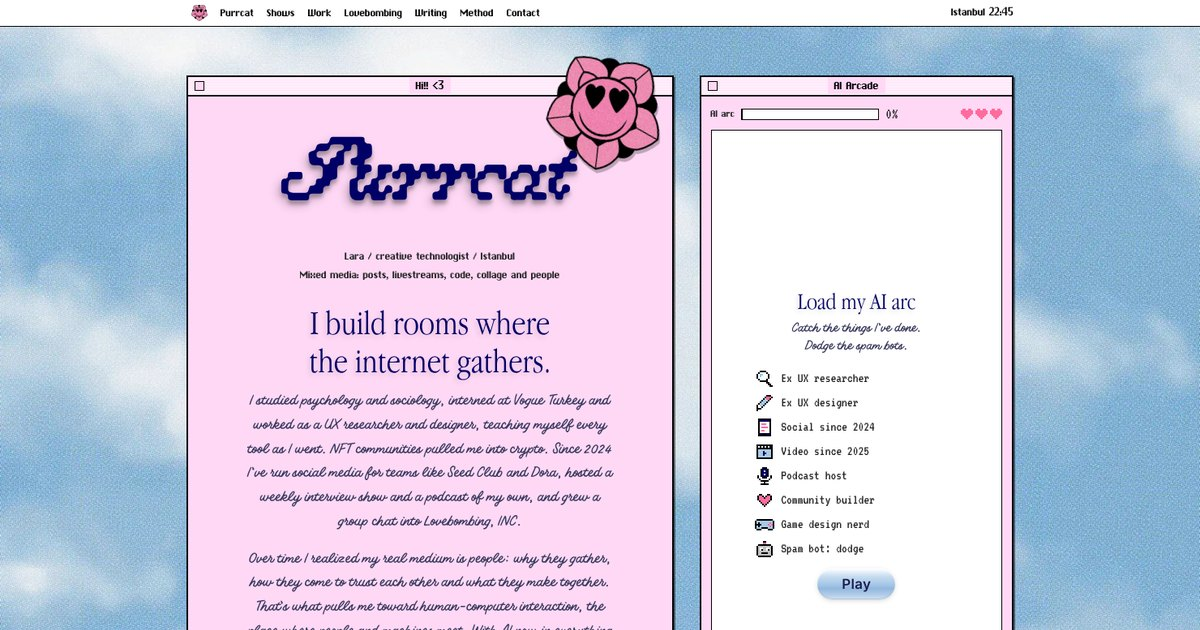
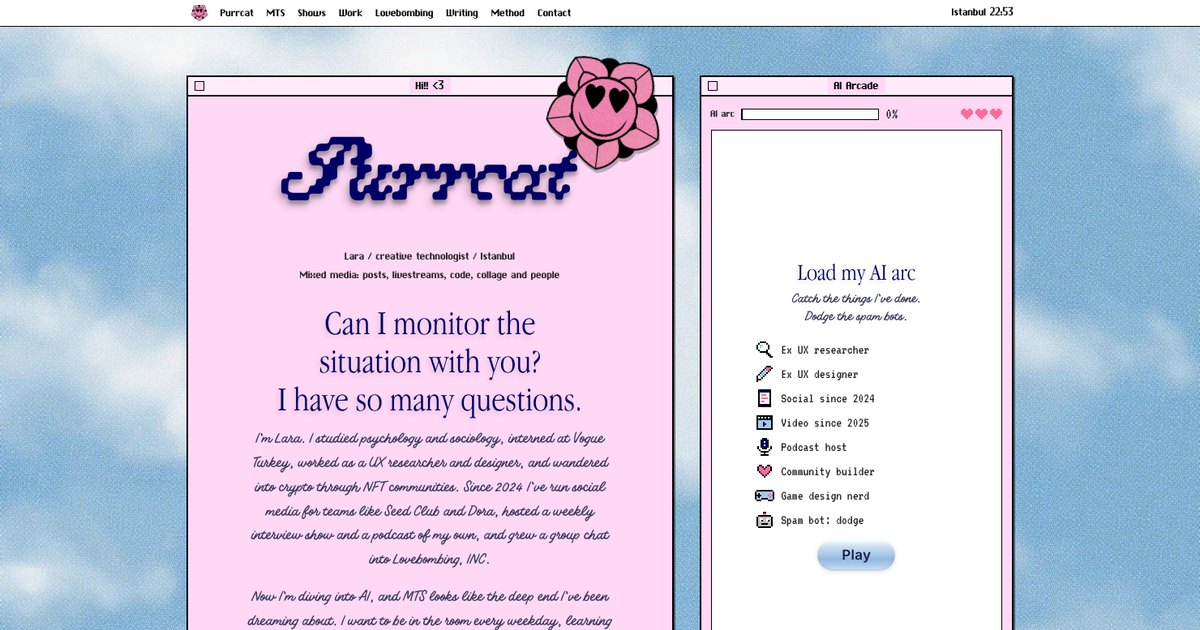
Point the page at MTS: a playful headline and a Letter to MTS
Headline: Can I monitor the situation with you? I have so many questions. The intro is shorter on me and ends on why MTS. A new Letter to MTS window after the timeline says why the show excites me, what I want to learn (how AI gets built and how it changes the way people and computers meet), and what I would bring: clips, live production, an interviewer's ear, timeline fluency, design and community. Signed See you at 9 PT, with a Write back button. MTS link in the menu, link preview updated.

Claude-Session: https://claude.ai/code/session_012vLfLktoEVwbfYkYAVud5t

diff --git a/index.html b/index.html
@@ -4,18 +4,18 @@
 <meta charset="utf-8">
 <meta name="viewport" content="width=device-width, initial-scale=1, viewport-fit=cover">
 <title>Purrcat Reel</title>
-<meta name="description" content="Purrcat is Lara, a mixed media creative technologist in Istanbul. She builds rooms where the internet gathers.">
+<meta name="description" content="Purrcat is Lara, a creative technologist in Istanbul. She would love to monitor the situation with MTS, and she has so many questions.">
 <link rel="canonical" href="https://agentic-scenester.vercel.app/">
 <meta property="og:type" content="website">
 <meta property="og:url" content="https://agentic-scenester.vercel.app/">
 <meta property="og:title" content="Purrcat Reel">
-<meta property="og:description" content="Purrcat is Lara, a mixed media creative technologist in Istanbul. She builds rooms where the internet gathers.">
+<meta property="og:description" content="Purrcat is Lara, a creative technologist in Istanbul. She would love to monitor the situation with MTS, and she has so many questions.">
 <meta property="og:image" content="https://agentic-scenester.vercel.app/assets/og.jpg">
 <meta property="og:image:width" content="1200">
 <meta property="og:image:height" content="630">
 <meta name="twitter:card" content="summary_large_image">
 <meta name="twitter:title" content="Purrcat Reel">
-<meta name="twitter:description" content="Purrcat is Lara, a mixed media creative technologist in Istanbul. She builds rooms where the internet gathers.">
+<meta name="twitter:description" content="Purrcat is Lara, a creative technologist in Istanbul. She would love to monitor the situation with MTS, and she has so many questions.">
 <meta name="twitter:image" content="https://agentic-scenester.vercel.app/assets/og.jpg">
 <meta name="theme-color" content="#87CEEB">
 <link rel="icon" type="image/png" href="assets/favicon.png">
@@ -310,6 +310,7 @@ img { max-width: 100%; }
   text-wrap: balance;
   text-shadow: -2px 3px 6px var(--shade-faint);
 }
+.headline span { display: block; }
 .lede { margin: 0; max-width: 50ch; font-family: var(--font-prose); font-size: 17px; line-height: 1.75; color: var(--prose); text-wrap: pretty; }
 .actions { display: flex; flex-wrap: wrap; justify-content: center; gap: 12px; margin-top: 4px; }
 
@@ -433,7 +434,7 @@ img { max-width: 100%; }
   text-wrap: balance;
   text-shadow: -2px 3px 6px var(--shade-faint);
 }
-.sec-intro { margin: 0; max-width: 60ch; font-family: var(--font-prose); font-size: 17px; line-height: 1.75; color: var(--prose); }
+.sec-intro { margin: 0; max-width: 60ch; font-family: var(--font-prose); font-size: 17px; line-height: 1.75; color: var(--prose); text-wrap: pretty; }
 
 .grid { display: grid; gap: 18px; grid-template-columns: minmax(0, 1fr); }
 @media (min-width: 760px) { .grid.c2, .grid.c3 { grid-template-columns: repeat(2, minmax(0, 1fr)); } }
@@ -516,6 +517,14 @@ a.frow:hover span, a.frow:focus-visible span { color: var(--paper); }
   animation: arc 1.4s linear infinite;
 }
 @keyframes arc { from { background-position: 0 0; } to { background-position: 12px 0; } }
+
+/* Letter to MTS */
+.letter { display: grid; gap: 28px; }
+@media (min-width: 880px) { .letter { grid-template-columns: minmax(0, 1.1fr) minmax(0, 1fr); gap: 44px; } }
+.letter-note { display: grid; gap: 14px; align-content: start; }
+.letter-note .links { margin-top: 4px; padding-top: 0; }
+.letter-sign { display: flex; flex-direction: column; align-items: flex-start; gap: 2px; margin-top: 4px; font-family: var(--font-chrome); font-size: 15px; }
+.letter-h { margin: 0 0 8px; font-family: var(--font-chrome); font-weight: normal; font-size: 16px; color: var(--ink); }
 
 /* Lovebombing pair */
 .pair { display: grid; gap: clamp(36px, 6vw, 56px); align-items: start; margin-top: clamp(36px, 6vw, 56px); }
@@ -829,6 +838,7 @@ html.lt-lock { overflow: hidden; }
     <a class="mb-logo" href="#top" aria-label="Back to top"><img src="assets/flower.webp" alt="" width="520" height="512"></a>
     <div class="mb-items">
       <a class="mb-hide-sm" href="#top">Purrcat</a>
+      <a href="#mts">MTS</a>
       <a href="#shows">Shows</a>
       <a href="#work">Work</a>
       <a href="#lovebombing">Lovebombing</a>
@@ -851,12 +861,12 @@ html.lt-lock { overflow: hidden; }
           <img class="sticker" src="assets/flower.webp" alt="" width="520" height="512">
           <h1 class="wordmark" id="h-top">Purrcat</h1>
           <p class="who"><span>Lara / creative technologist / Istanbul</span><span>Mixed media: posts, livestreams, code, collage and people</span></p>
-          <p class="headline">I build rooms where the internet gathers.</p>
-          <p class="lede">I studied psychology and sociology, interned at Vogue Turkey and worked as a UX researcher and designer, teaching myself every tool as I went. NFT communities pulled me into crypto. Since 2024 I’ve run social media for teams like Seed Club and Dora, hosted a weekly interview show and a podcast of my own, and grew a group chat into Lovebombing, INC.</p>
-          <p class="lede">Over time I realized my real medium is people: why they gather, how they come to trust each other and what they make together. That’s what pulls me toward human-computer interaction, the place where people and machines meet. With AI now in everything we touch, from how we write to how we play and love, that place keeps growing, and so does what we can imagine. I want to build there: tools, games and mixed media work that keep a human hand inside the machine.</p>
+          <p class="headline"><span>Can I monitor the situation with you?</span> <span>I have so many questions.</span></p>
+          <p class="lede">I’m Lara. I studied psychology and sociology, interned at Vogue Turkey, worked as a UX researcher and designer, and wandered into crypto through NFT communities. Since 2024 I’ve run social media for teams like Seed Club and Dora, hosted a weekly interview show and a podcast of my own, and grew a group chat into Lovebombing, INC.</p>
+          <p class="lede">Now I’m diving into AI, and MTS looks like the deep end I’ve been dreaming about. I want to be in the room every weekday, learning from the people building it, helping the best moments travel and slowly growing a point of view that’s all mine.</p>
           <div class="actions">
-            <a class="aqua" href="#shows">See my work</a>
-            <a class="mbtn" href="#contact">Get in touch</a>
+            <a class="aqua" href="#mts">Read my letter</a>
+            <a class="mbtn" href="#shows">See my work</a>
           </div>
         </div>
       </section>
@@ -945,6 +955,32 @@ html.lt-lock { overflow: hidden; }
   </div>
 
   <div class="wrap">
+    <section class="win sec" id="mts" aria-labelledby="h-mts">
+      <div class="tbar" aria-hidden="true"><i class="box"></i><span>Letter to MTS</span><i class="box ghost"></i></div>
+      <div class="sec-body">
+        <div class="letter">
+          <div class="letter-note">
+            <h2 id="h-mts">Dear MTS,</h2>
+            <p class="sec-intro">You take the loudest place on the internet, the timeline, and make sense of it live with the people building AI. I love that kind of chaos. AI is the story of my generation, and you tell it every weekday, as it happens.</p>
+            <p class="sec-intro">I want to learn how AI really gets built, funded, argued about and used, close enough to form my own opinions. I’m especially curious about how it changes the way people and computers meet, and every guest is a new piece of that puzzle.</p>
+            <div class="letter-sign"><span>See you at 9 PT,</span><span class="sig">Purrcat</span></div>
+            <div class="links"><a class="aqua" href="mailto:purrcatstudio@gmail.com">Write back</a></div>
+          </div>
+          <div class="letter-bring">
+            <h3 class="letter-h">What I’d bring</h3>
+            <ol class="history">
+              <li><i class="hrt" aria-hidden="true"></i><div><strong>Clips that travel</strong><p>I’ve clipped, edited and captioned my own livestreams and interviews for X, YouTube and Instagram.</p></div></li>
+              <li><i class="hrt" aria-hidden="true"></i><div><strong>Live production</strong><p>I streamed weekly to X, YouTube, Twitch and Instagram at the same time with OBS and Restream.</p></div></li>
+              <li><i class="hrt" aria-hidden="true"></i><div><strong>An interviewer’s ear</strong><p>I’ve hosted founders, creators and industry leaders, so I can hear the moment worth clipping.</p></div></li>
+              <li><i class="hrt" aria-hidden="true"></i><div><strong>Timeline fluency</strong><p>I know how memes and moods travel between tech, crypto and the mainstream, and how to post like a person.</p></div></li>
+              <li><i class="hrt" aria-hidden="true"></i><div><strong>Design and community</strong><p>I make brand assets and collage, and I know how to turn an audience into regulars.</p></div></li>
+            </ol>
+          </div>
+        </div>
+      </div>
+      <div class="sbar"><span>Sent from Istanbul</span><span>Live at 9 PT</span></div>
+    </section>
+
     <section class="win sec" id="shows" aria-labelledby="h-shows">
       <div class="tbar" aria-hidden="true"><i class="box"></i><span>Shows</span><i class="box ghost"></i></div>
       <div class="sec-body">
